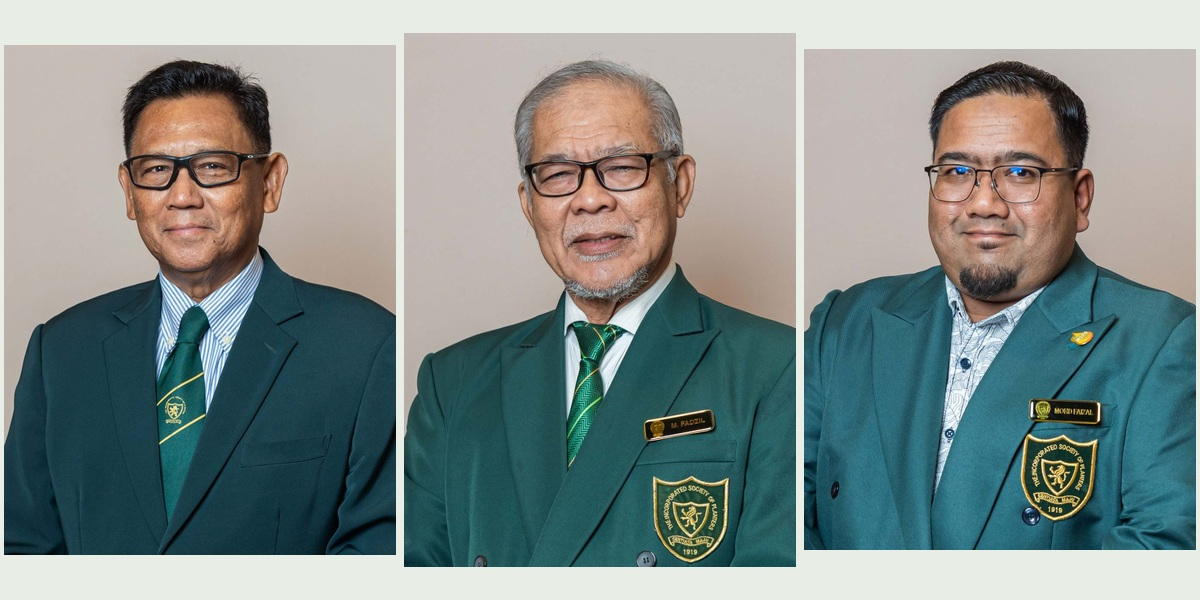
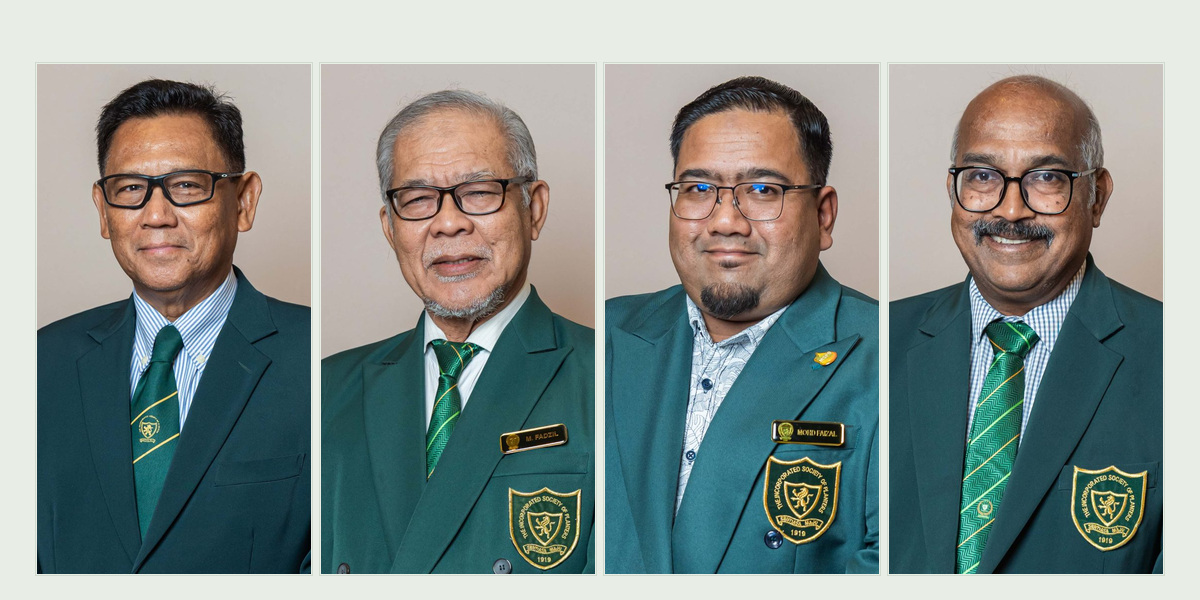
Show administrator publication previews and preserve full event posters

diff --git a/src/ContentPages.tsx b/src/ContentPages.tsx
@@ -347,7 +347,8 @@ export function ConnectedDiscover({ session, children }: { session: Session; chi
       for (const item of page.items) {
         let image = '/assets/' + item.data.defaultImage;
         if (item.data.image) { const lease = await api.loadAttachments('discover', item.id, [item.data.image], session); if (!active) { lease.release(); return; } releases.push(lease.release); image = lease.files[item.data.image]?.objectUrl || image; }
-        const href = safeContentWebsite(item.data.websiteUrl); if (href) result.push({ tag: item.data.tag, title: item.data.title, description: item.data.description, href, image, alt: item.data.imageAlt, ...(item.data.imageAlt === 'Official ISP board member portraits, 2025–2027' ? { caption: 'Selected board members · 2025–2027' } : {}) });
+        const caption = item.data.imageAlt === 'Official ISP board leadership and Chief Executive portraits' ? 'Selected board leadership & Chief Executive' : item.data.imageAlt === 'Official ISP board member portraits, 2025–2027' ? 'Selected board members · 2025–2027' : undefined;
+        const href = safeContentWebsite(item.data.websiteUrl); if (href) result.push({ tag: item.data.tag, title: item.data.title, description: item.data.description, href, image, alt: item.data.imageAlt, ...(caption ? { caption } : {}) });
       }
       if (active && sessionResultIsCurrent(session)) setSlides(result.length ? result : undefined);
     }).catch(() => { if (active) setSlides(undefined); });
@@ -375,17 +376,22 @@ export function HomeEvents({ session }: { session: Session }) {
 }
 
 export function HomePublications({ session }: { session: Session }) {
-  const [items, setItems] = useState<ContentProjection<PublicationData>[]>([]), [files, setFiles] = useState<Record<string, AttachmentView>>({}), [error, setError] = useState(''), [loading, setLoading] = useState(false);
+  const [items, setItems] = useState<(ContentProjection<PublicationData> | ContentDraft<PublicationData>)[]>([]), [files, setFiles] = useState<Record<string, AttachmentView>>({}), [error, setError] = useState(''), [loading, setLoading] = useState(false);
+  const canView = session.status === 'ready' && (session.memberAccess || session.adminAccess), adminPreview = !session.memberAccess && session.adminAccess;
+  const libraryHref = adminPreview ? '/admin/publications' : '/member/publications';
+  const publicationHref = (id: string) => adminPreview ? '/admin/publications/' + id + '/preview' : '/member/publications/' + id;
   useEffect(() => {
     let active = true; const releases: (() => void)[] = [];
-    if (!session.memberAccess) return;
-    setItems([]); setFiles({}); setError(''); setLoading(true);
-    void api.listPublished<PublicationData>('publication', null, session).then(async page => {
-      const visible = page.items.slice(0, 3), resolved: Record<string, AttachmentView> = {};
+    setItems([]); setFiles({}); setError(''); setLoading(canView);
+    if (!canView) return;
+    async function load() {
+      const page = session.memberAccess ? await api.listPublished<PublicationData>('publication', null, session) : await api.listDrafts<PublicationData>('publication', null, session);
+      const visible = page.items.filter(item => session.memberAccess || ('publishedRevision' in item && !!item.publishedRevision)).slice(0, 3), resolved: Record<string, AttachmentView> = {};
       for (const item of visible) if (item.data.cover) { const lease = await api.loadAttachments('publication', item.id, [item.data.cover], session); if (!active) { lease.release(); return; } releases.push(lease.release); Object.assign(resolved, lease.files); }
       if (active && sessionResultIsCurrent(session)) { setItems(visible); setFiles(resolved); }
-    }).catch(() => { if (active) setError('The member library is unavailable at the moment.'); }).finally(() => { if (active) setLoading(false); });
+    }
+    void load().catch(() => { if (active) setError('The member library is unavailable at the moment.'); }).finally(() => { if (active) setLoading(false); });
     return () => { active = false; releases.forEach(release => release()); };
-  }, [session]);
-  return <section className="home-section home-publications" aria-label="Member publications"><div className="section-head"><h2>Publications</h2><Icon name="journal-bookmark" /></div>{session.memberAccess ? <><p className="section-lede">Your next good read, from the ISP member library.</p><ListingStatus loading={loading} error={error} />{!loading && !error && !items.length && <div className="empty-state"><p>New issues will appear here when published.</p><Link href="/member/publications" className="link-button">Open your library</Link></div>}{items.map(item => <article className="publication-card" key={item.id}><Link href={'/member/publications/' + item.id} className="publication-cover-link">{item.data.cover && imageUrl(files[item.data.cover]) ? <img src={imageUrl(files[item.data.cover])} alt={item.data.title + ' cover'} loading="lazy" /> : <span className="form-hint">Cover unavailable</span>}</Link><div><span className="eyebrow">Member publication</span><h3>{item.data.title}</h3>{item.data.subtitle && <p className="publication-subtitle">{item.data.subtitle}</p>}<p>{item.data.description.slice(0, 160)}</p><Link href={'/member/publications/' + item.id} className="link-button">Read publication<Icon name="chevron-right" /></Link></div></article>)}{items.length > 0 && <Link href="/member/publications" className="link-button">View all publications</Link>}</> : session.adminClaim ? <><p className="section-lede">Publish the next issue for the member library.</p><Link href="/admin/publications" className="secondary full">Manage publications</Link></> : <><p className="section-lede">A library for ISP members. Sign in to view the covers, read the latest issues and access PDF books.</p><Link href="/member/publications" className="secondary full">Member login</Link></>}</section>;
+  }, [session, canView]);
+  return <section className="home-section home-publications" aria-label="Member publications"><div className="section-head"><h2>Publications</h2><Icon name="journal-bookmark" /></div>{canView ? <><p className="section-lede">{adminPreview ? 'Administrator previews for published issues.' : 'Your next good read, from the ISP member library.'}</p><ListingStatus loading={loading} error={error} />{!loading && !error && !items.length && <div className="empty-state"><p>{adminPreview ? 'Open administration to review all publications.' : 'New issues will appear here when published.'}</p><Link href={libraryHref} className="link-button">{adminPreview ? 'Manage publications' : 'Open your library'}</Link></div>}{items.map(item => <article className="publication-card" key={item.id}><Link href={publicationHref(item.id)} className="publication-cover-link">{item.data.cover && imageUrl(files[item.data.cover]) ? <img src={imageUrl(files[item.data.cover])} alt={item.data.title + ' cover'} loading="lazy" /> : <span className="form-hint">Cover unavailable</span>}</Link><div><span className="eyebrow">{adminPreview ? 'Administrator preview' : 'Member publication'}</span><h3>{item.data.title}</h3>{item.data.subtitle && <p className="publication-subtitle">{item.data.subtitle}</p>}{adminPreview && 'publishedRevision' in item && item.revision !== item.publishedRevision && <p className="form-hint">This draft has unpublished changes.</p>}<p>{item.data.description.slice(0, 160)}</p><Link href={publicationHref(item.id)} className="link-button">{adminPreview ? 'Preview publication' : 'Read publication'}<Icon name="chevron-right" /></Link></div></article>)}{items.length > 0 && <Link href={libraryHref} className="link-button">{adminPreview ? 'Manage publications' : 'View all publications'}</Link>}</> : session.adminClaim ? <><p className="section-lede">Publish the next issue for the member library.</p><Link href="/admin/publications" className="secondary full">Manage publications</Link></> : <><p className="section-lede">A library for ISP members. Sign in to view the covers, read the latest issues and access PDF books.</p><Link href="/member/publications" className="secondary full">Member login</Link></>}</section>;
 }

diff --git a/src/App.tsx b/src/App.tsx
@@ -281,7 +281,7 @@ function Roster() {
 
 type HomeSlide = { tag: string; title: string; description: string; href: string; image: string; alt: string; caption?: string; secondaryImage?: string };
 const slides: HomeSlide[] = [
-  { tag: 'People and professional fellowship', title: 'Bridging experience. Inspiring the next generation.', description: 'Seasoned planters and emerging professionals, sharing knowledge to move the profession forward.', href: 'https://isp.org.my/v4/', image: 'discover-board.jpg', alt: 'Official ISP board member portraits, 2025–2027', caption: 'Selected board members · 2025–2027' },
+  { tag: 'People and professional fellowship', title: 'Bridging experience. Inspiring the next generation.', description: 'Seasoned planters and emerging professionals, sharing knowledge to move the profession forward.', href: 'https://isp.org.my/v4/', image: 'discover-board.jpg', alt: 'Official ISP board leadership and Chief Executive portraits', caption: 'Selected board leadership & Chief Executive' },
   { tag: 'Knowledge worth sharing', title: 'A profession that keeps learning.', description: 'Explore The Planter, ISP publications and seminars, connecting field experience with fresh perspectives from the plantation profession.', href: 'https://isp.org.my/v4/library/', image: 'planter-cover.jpg', alt: 'The Planter professional publication cover', secondaryImage: 'discover-seminar.jpg' },
   { tag: 'Ideas grow in good company', title: 'Make a connection. Share a new perspective.', description: 'Discover workshops, field visits and conversations that bring the plantation community together.', href: 'https://isp.org.my/v4/event/', image: 'member-events.jpg', alt: 'Plantation professionals exchanging ideas' },
 ];

diff --git a/src/styles.css b/src/styles.css
@@ -172,7 +172,7 @@ input.full{text-align:center}
 .public-event-detail h1{font-size:2.04rem;line-height:1.08;margin-bottom:16px}
 .event-lead{font-size:1rem;margin-bottom:23px}
 .event-detail-image{margin:0 -24px 25px}
-.event-detail-image>img{display:block;width:100%;max-height:310px;aspect-ratio:4/3;object-fit:cover}
+.event-detail-image>img{display:block;width:100%;height:auto;object-fit:contain}
 .event-fact-list{display:grid;gap:20px;margin-bottom:28px;padding-bottom:25px;border-bottom:1px solid var(--line)}
 .event-fact-list>div{display:flex;align-items:flex-start;gap:15px;font-size:.98rem;line-height:1.4}
 .event-fact-list .ui-icon{margin-top:3px}
@@ -188,7 +188,7 @@ input.full{text-align:center}
 .preserve-lines{white-space:pre-wrap;overflow-wrap:anywhere}
 .programme-lines{border-left:2px solid #aac5a8;padding-left:17px}
 .event-gallery{display:grid;gap:13px;margin:26px 0}
-.event-gallery img{display:block;width:100%;border-radius:5px}
+.event-gallery img{display:block;width:100%;height:auto;object-fit:contain;border-radius:5px}
 .brochure-card{display:flex;align-items:flex-start;gap:16px;padding:23px 0;border-block:1px solid var(--line)}
 .brochure-card>.ui-icon{width:30px;height:30px;margin-top:2px}
 .brochure-card h2{font-size:1.4rem;margin-bottom:9px}
